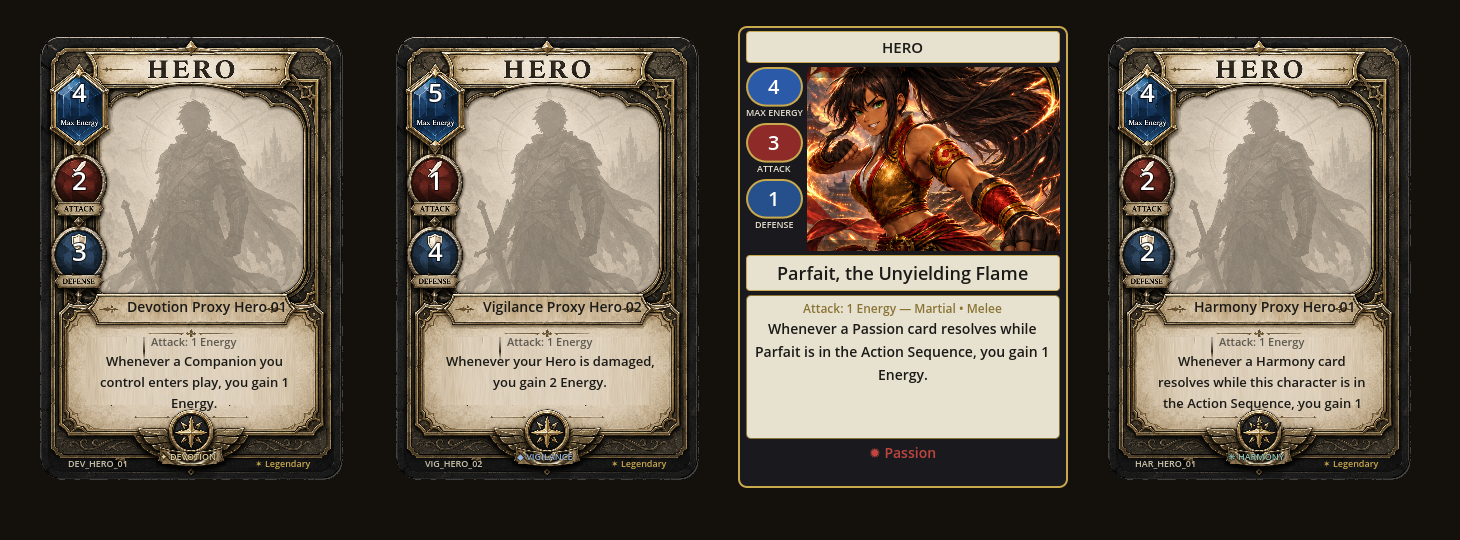
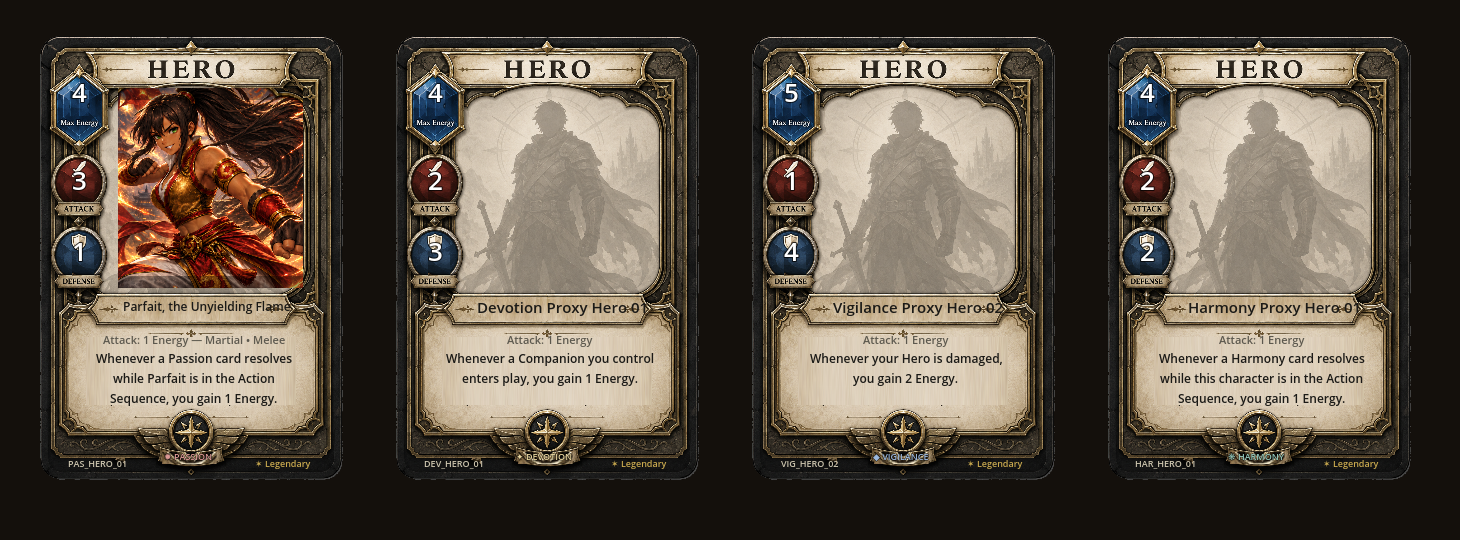
Put Parfait on the Hero frame too
Parfait no longer opts out, so every Hero is drawn on the same painted frame.
Her portrait is re-cropped from the finished card at the proportions of the
frame's art window, so it fills the window exactly instead of being cropped to
fit a shape it was never cut for.

A Hero's name is now set to fit its banner rather than clipped: the banner is a
fixed painted width, and a Hero's name is the one thing on the card that has to
read in full. The rules text is sized for the frame's narrower panel, so a long
rule fits instead of running off the bottom.

The opt-out stays in the card data for a card finished before its type has a
frame, and the UI suite now proves the mechanism rather than the one card that
used to use it.

Claude-Session: https://claude.ai/code/session_01FqpqEYH3RyaCaGf7y5ZbA3

diff --git a/docs/ADDING_CARDS.md b/docs/ADDING_CARDS.md
@@ -106,8 +106,13 @@ Affinity and the footer, each anchored over the region the template painted for
 it.
 
 A card opts out with `"frame": "plain"`, which draws the laid-out face instead.
-That is for a card finished before its type had a frame, so it keeps the look it
-shipped with. Parfait, the Unyielding Flame is the one card that uses it.
+That is for a card finished before its type has a frame, so it can keep the look
+it shipped with. No card uses it at the moment.
+
+A card's art should be cropped to the proportions of its frame's art window —
+for the Hero frame, the `"art"` slot in `src/ui/card_view.gd`, which is roughly
+5 wide to 5.4 tall. Art of another shape still works: it is scaled to cover the
+window and cropped, rather than squashed.
 
 To give another type a frame: add the painted template to `assets/frames/`,
 teach `tools/prepare_hero_frame.gd` to paint its placeholder text out, and add

diff --git a/README.md b/README.md
@@ -85,8 +85,8 @@ godot --headless --path . --script tools/prepare_hero_frame.gd
 ```
 
 A card can opt out with `"frame": "plain"` in its data, which is how a card
-finished before its type had a frame keeps the look it shipped with. Parfait,
-the Unyielding Flame is the one card that does.
+finished before its type had a frame can keep the look it shipped with. No card
+uses it at the moment: every Hero, Parfait included, is on the frame.
 
 Cards on the table are drawn small enough to fit it, which leaves their rules
 text too small to read, so resting the pointer on one brings the same card up
